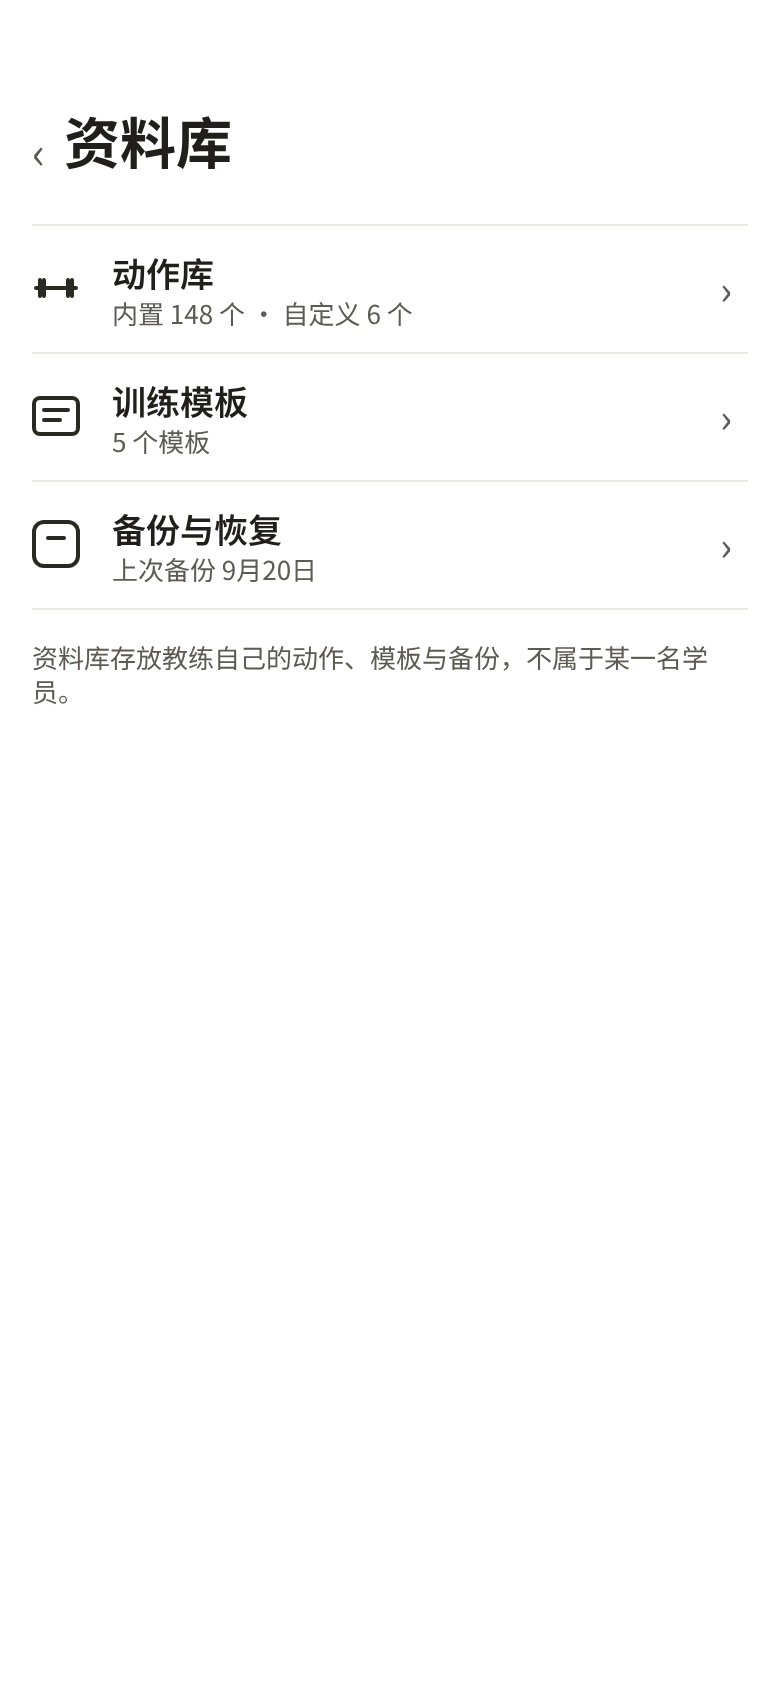
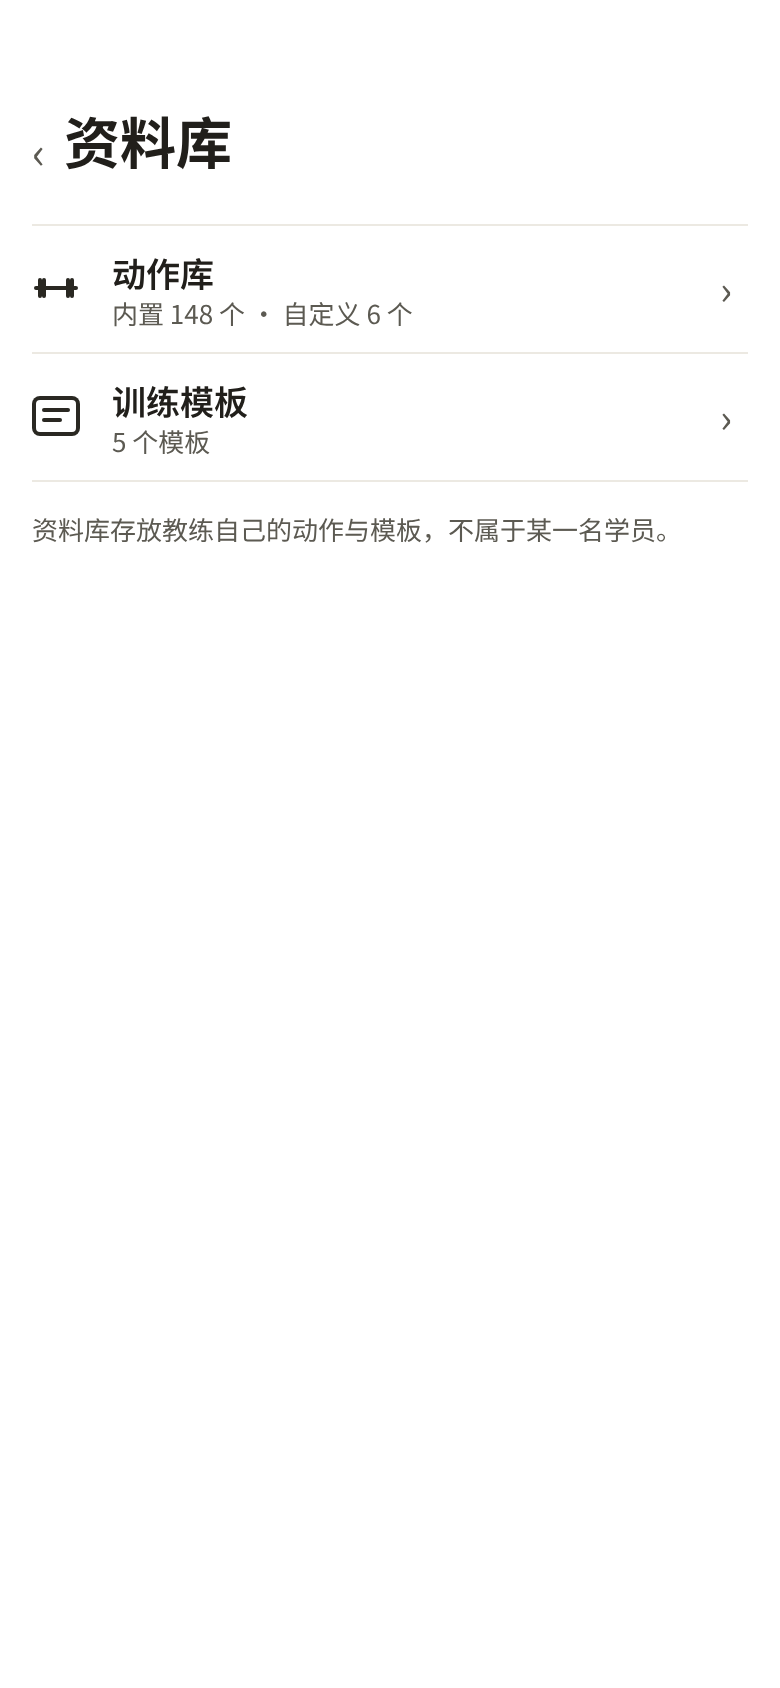
docs(design): D15 settings page and header entries (T079); backup moves out of resource hub

diff --git a/design/design-system/README.md b/design/design-system/README.md
@@ -50,6 +50,7 @@ Phase 6.5 人工审核（T063）发现 8 个核心界面需要结构调整，并
 | `35-session-detail` | D12 训练记录（训练历史 → 点日期行）：复用 `29-share-preview` 的分区（日期 / 标题 / 学员、三项统计、训练部位、动作每行 3 组、课后总结），不带页脚；下方「编辑训练重点 ›」「另存为模板 ›」操作行（另存为模板用底部面板命名）、只读说明，底部固定「生成训练报告」（2026-09-28 产品负责人反馈原页面像表格、字体不齐） | 补充 32 |
 | `36-new-package-stepper`、`37-manual-adjustment-stepper` | D13 数字步进器（2026-09-29 产品负责人批准方案 C「整体胶囊」，T064 发现新建课包「总课时数」与人工调整「课时数」仍为 iOS 系统 `Stepper`）；两页页头同时改为 `‹` + 页面内 `titleLarge`（与 04、训练趋势一致）。新建课包的开始 / 结束日期行与 02 相同：标签-值两栏行，值为 `body`「yyyy年M月d日」（课包有效期可能跨年，保留年份）+ `›`，点行在下方展开日历（2026-09-29 产品负责人审核时要求，快照 `D13a date row as 02 (value + ›) 2026-09-29`）。Penpot 快照 `before-D13-stepper 2026-09-29` → `D13 stepper capsule (option C) 2026-09-29`，画板 D13a、D13b | 新增 |
 | `38-backup-restore-v2` | D14 备份与恢复 v2（T071，2026-09-29）：08 原画稿把「密码 + 再次确认密码」画在「恢复」下，但设置并确认口令属于**导出**，恢复只需「选择备份文件」+ 一次口令；按功能摆放，其余照 08（页面内标题与副标题、导出 / 恢复分区与分割线、失败状态 `status.destructive` 文字 + 22×22「!」徽标 + 说明 + 居中「重试」）。恢复区直接显示，去掉原「从备份恢复」展开按钮与底部整宽「取消」（改用返回）。说明文字 `caption`，口令框为输入框（08）的遮蔽输入。快照 `before-T071-backup-v2 2026-09-29` → `T071 backup-restore v2 (D14) 2026-09-29` | 取代 08 |
+| `40-today-header`、`41-student-list-header`、`42-settings`、`43-settings-notification-denied`，并重新导出 `19-resource-hub` | D15 设置页与页头入口（2026-09-29 产品负责人批准，T079 起）：CoachOps 缺一个设置页，通知权限被拒后没有「前往系统设置」出口（M1B-FR-009）。今日页头右侧从左到右为「＋ 新建预约、日历、设置」，学员页头为「资料库、设置」；设置页三行：通知（副标题「提醒已开启」；被拒绝时为状态标签 + 「前往设置」，点击打开系统设置）、备份与恢复（副标题「上次备份 …」，入口从资料库移到这里）、关于（版本号，无 `›`）；资料库只保留动作库与模板，说明文字同步去掉「备份」 | 补充 01、21；修改 19 |
 | `39-backup-restore-success` | D14b 恢复完成状态（T072，产品负责人 2026-09-29）：恢复成功后在「恢复」按钮下方就地显示，与失败状态对称——22×22 `action.primary` 圆底白色 ✓ 徽标（信息性状态，§7.2）+「恢复完成」`callout` 600 `text.primary` + `caption` `text.secondary`「本机数据已替换为备份中的版本。请到学员、课包、模板等页面检查数据是否正确。」；只有文字提示，不加跳转链接。快照 `before-T072-restore-success 2026-09-29` → `T072 restore success state (D14b) 2026-09-29` | 补充 38 |
 
 新画稿中训练重点一律显示部位名（如「大腿、臀」），对应 spec Revision 1.2 的 M1B-FR-033。
@@ -291,6 +292,9 @@ Phase 6.5 人工审核（T063）发现 8 个核心界面需要结构调整，并
 | 训练中提示条 | 学员列表顶部，样式同提示条（`surface.selected` 底、`caption` `action.primary` 字），右侧「继续训练」`callout` 600 `action.primary` |
 | 列表分组入口行 | 「已归档 · N ›」「已处理 · N ›」：`sectionLabel` `text.secondary` + 右侧 `›` |
 | 标题行图标按钮 | 大标题同一行右侧，22×20 线性图标（描边 1.5，`text.secondary`），点击区 ≥ 44×44，不加底色与阴影（日历入口、资料库入口） |
+| 标题行「＋」主入口（D15a，2026-09-29） | 仅今日页：36×36 实心圆（`action.primary`）+ 白色 14×2 十字，点击区 ≥ 44×44，位于标题行图标组最左（`＋ 日历 设置`），图标中心间距 44；含义固定为「新建预约」（打开新建预约页，学员留空、日期默认今天），无障碍标签「新建预约」；不是「开始训练」，也不是学员页的「新学员」 |
+| 设置入口（D15，2026-09-29） | 齿轮线性图标，规格同标题行图标按钮，放在今日页与学员页标题行最右，两页都进入同一个设置页 |
+| 设置页列表行（D15c/d） | 沿用资料库入口页 `hubRow`：左 24 图标（`action.primary` 描边），标题 `headline` 600，副标题 `caption` `text.secondary`，右侧可选 `›`；通知被拒绝时副标题换成 `FCStatusLabel(.permissionDenied)`，行尾放「前往设置」`callout` 600 |
 | 标签-值两栏行 | 标签 `callout` 400 `text.secondary` 在 x=16，值 `body` 在 x=112，行高 48–52，行间分割线（02 重画、学员详情资料区、编辑资料） |
 | 动作库筛选入口与面板（20，2026-09-27 产品负责人批准） | 搜索框右侧放标题行图标按钮同款的筛选图标（有筛选时为实心），点击打开底部面板「筛选」：区段标签「器械」+ 筛选胶囊（全部 + 8 个器材类别，自动换行）、分割线、「显示已隐藏」行 + 开关、底部链接式按钮「完成」。主界面仍只显示部位筛选胶囊。用于保留 M1-A 的「按器械浏览」与「显示已隐藏」，不在主界面增加第二行胶囊 |
 | 动作选项面板（20，2026-09-27） | 点击动作行（右侧 `›`）打开底部面板：标题为动作名，副标题同行内副文字；三行「收藏 / 隐藏 / 辅助器械」+ 开关；自定义动作多一行「编辑动作 ›」。已收藏的动作在行尾 `›` 前显示实心星标 |
